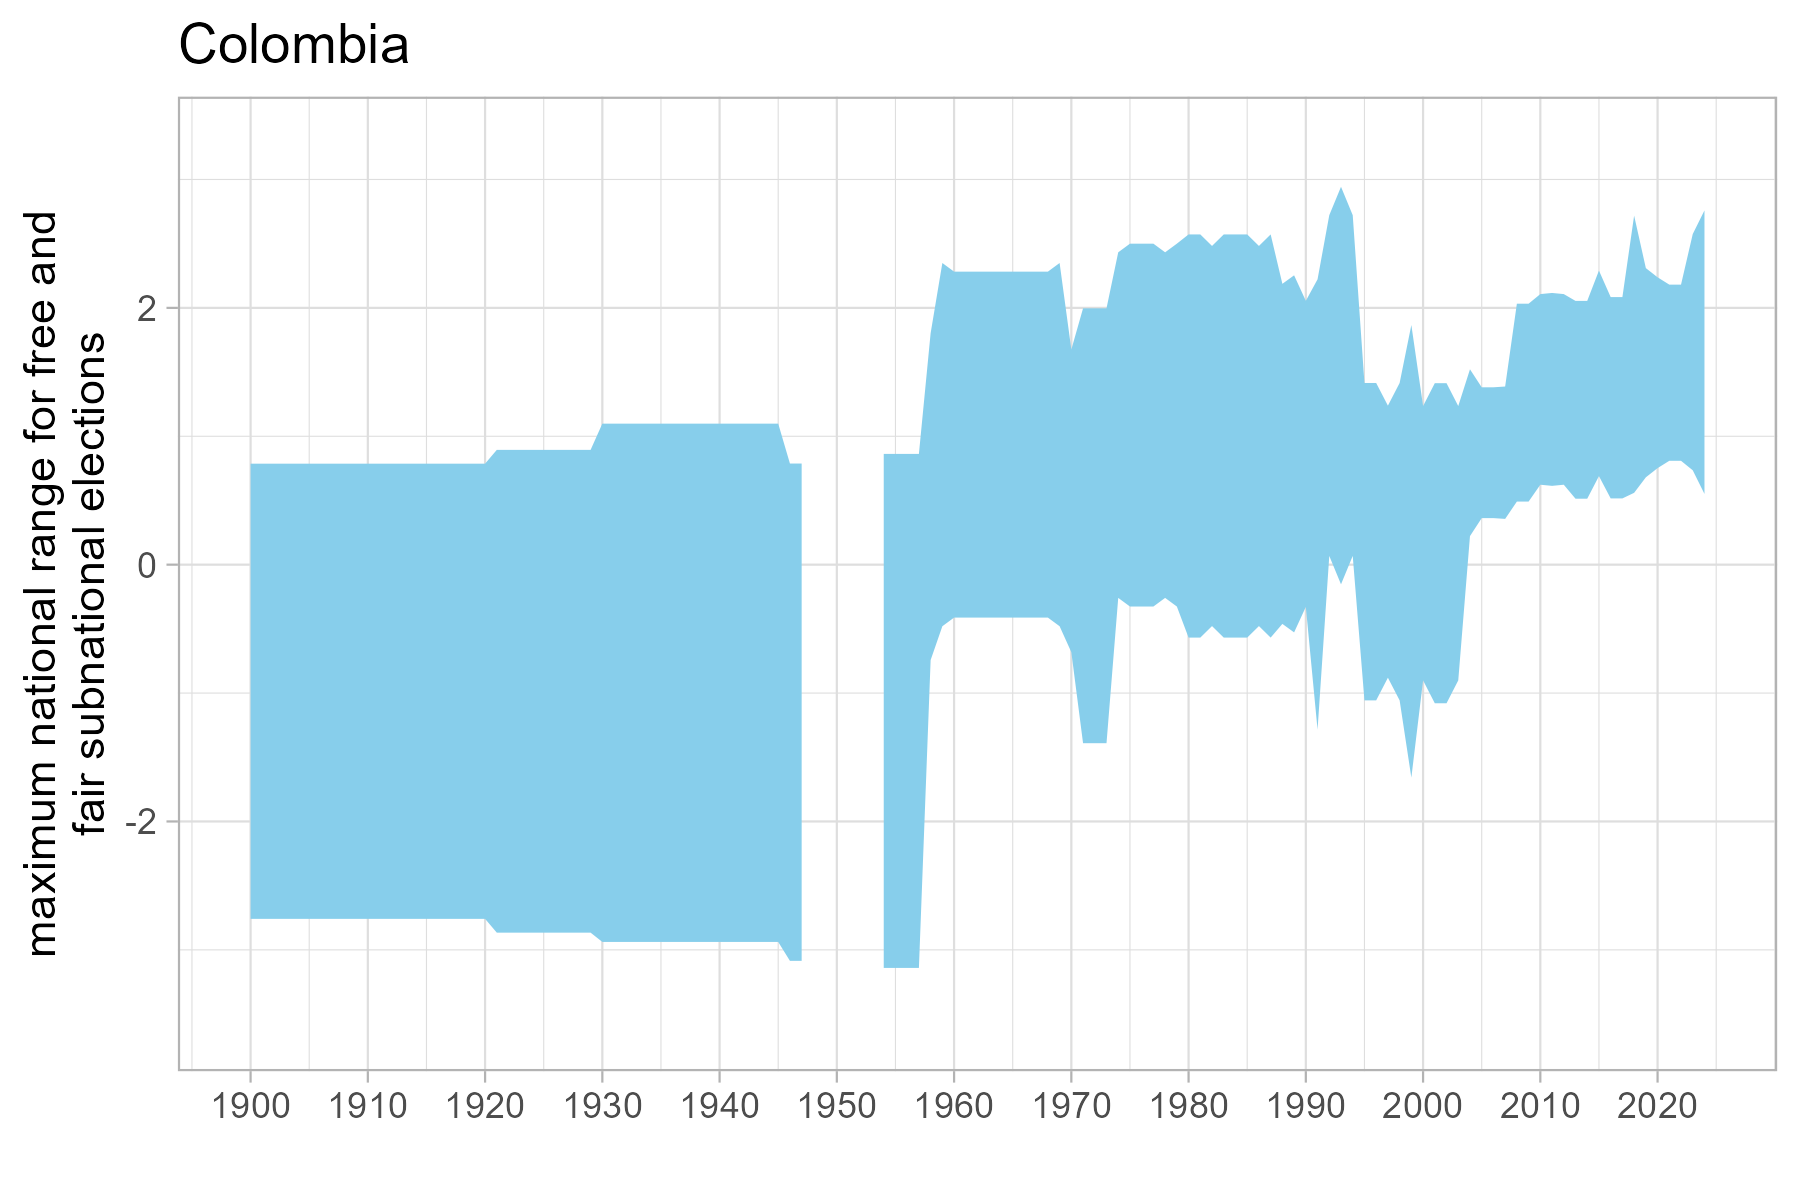
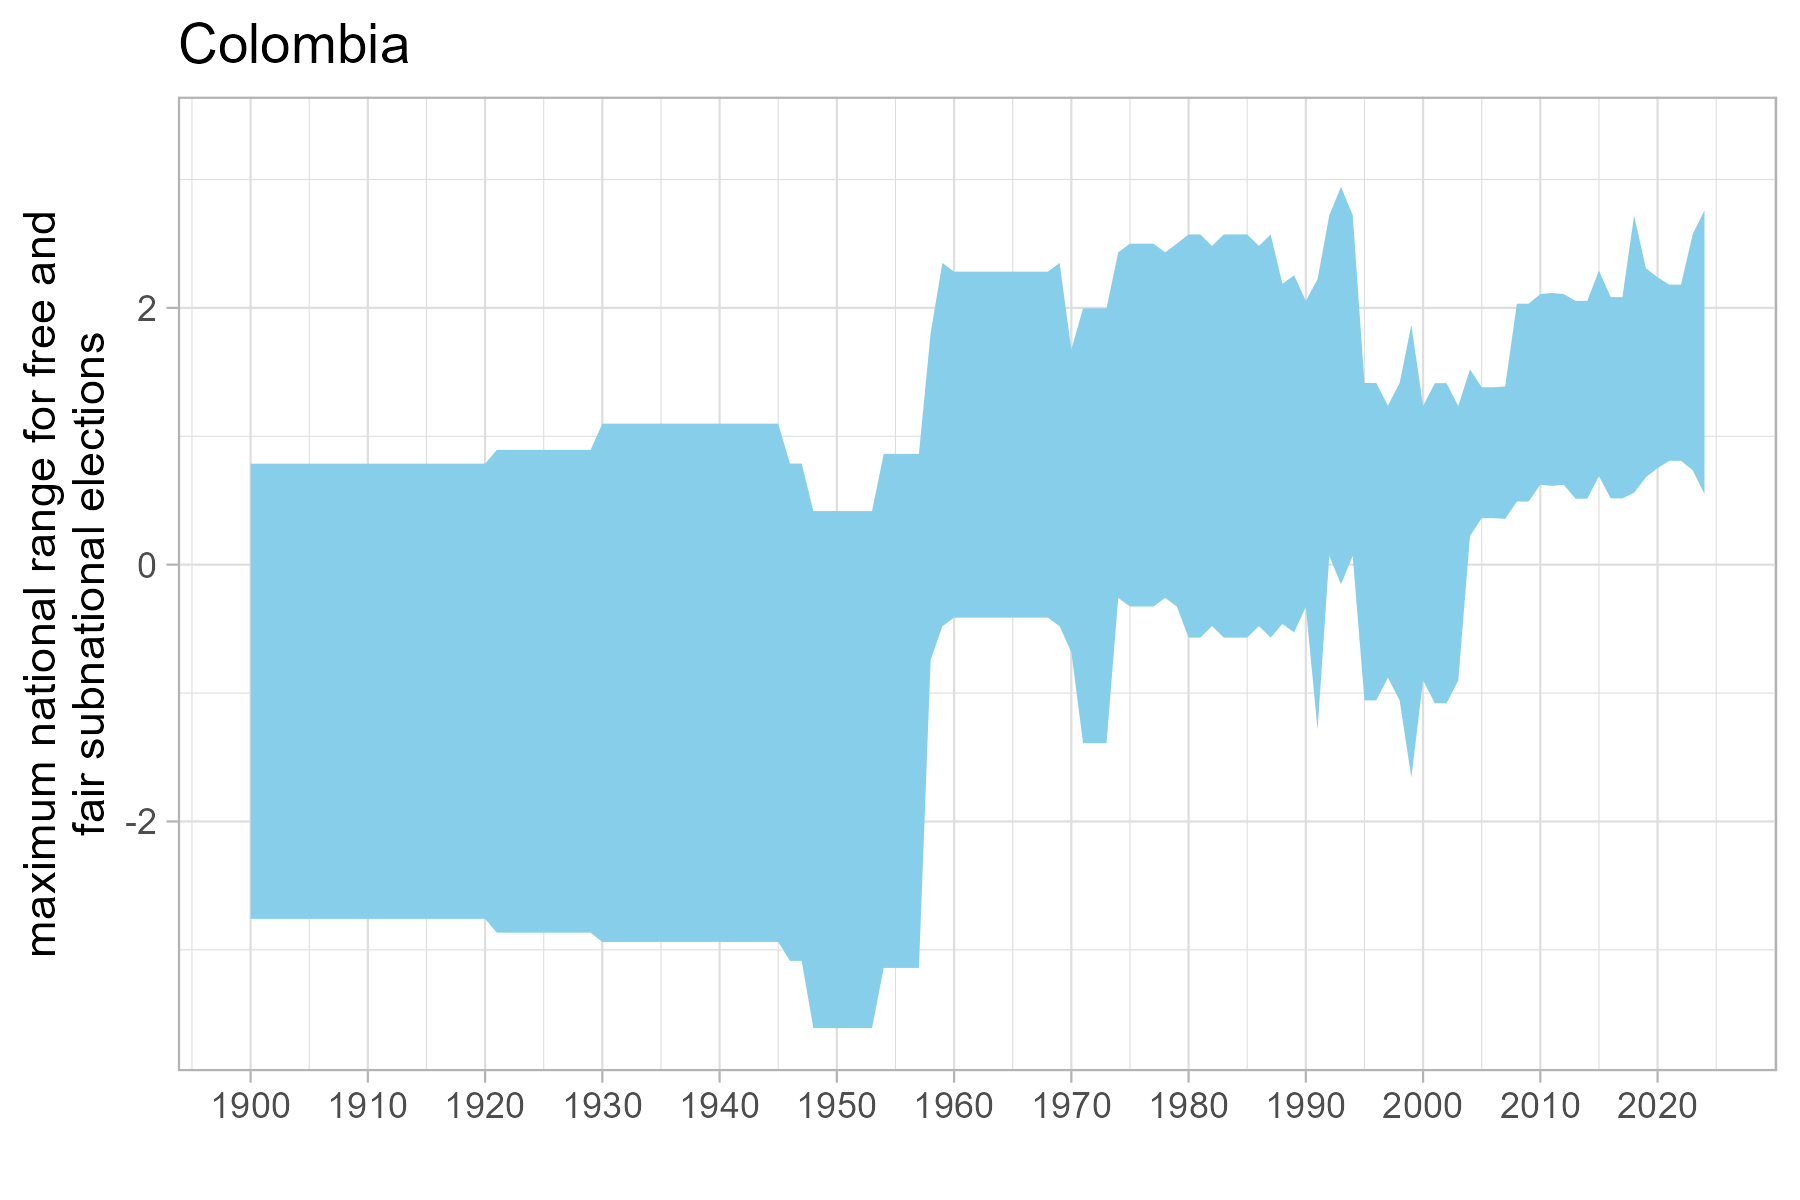
Fix scale_y_continuous() silently dropping out-of-range rows in weighting plots
scale_y_continuous(limits=...) converts values outside the window to NA
before geom_ribbon() draws, rather than just zooming -- this was tearing a
visible gap in snlsff_colrange.png around COL 1948-1953, where the
2026-07-03 range-formula correction pushed ymin just past the plot's
hardcoded c(-3.6, 3.3) limits. Replaced with coord_cartesian(ylim=...) in
both the elections and civil-liberties plots, which only sets the
viewport and never drops in-range data regardless of how the weighting
formula evolves.

Also confirmed (again, more fully this time) that MC's legacy weighted-range
formula is invalid, not a valid alternate calculation: 40% of rows come out
negative under the legacy formula vs. 0% under the current one. See
weighting_bug_log_2026-07-06.md for the full trace and comparison.

Changed region(s): [[0.4356, 0.4008, 0.4978, 0.8633]]

diff --git a/data/panel/04_vdem_data/weighting_bug_log_2026-07-06.md b/data/panel/04_vdem_data/weighting_bug_log_2026-07-06.md
@@ -1,0 +1,71 @@
+# Weighting script bug log — 2026-07-06
+
+**Context:** Patrick noticed a gap in `snlsff_colrange.png` around 1950 (`ggsave` warning:
+"Removed 6 rows containing missing values or values outside the scale range
+(`geom_ribbon()`)"), and separately asked why the new plot looks so different from MC's
+`weighting_January2026_0726.R` output, since line 115 of that script "appears to properly
+calculate the weighted ranges."
+
+## Bug — `scale_y_continuous(limits=...)` silently drops out-of-range rows
+
+Traced the 6 missing rows directly: both `snlsff` (coder counts) and `HPDs` (`v2elffelr`) are
+complete for Colombia, 1900-2024/2025 — no NAs, no gaps, no duplicate merge keys. The 6 rows
+are COL 1948-1953, where (with the 2026-07-03 corrected formula) `ymin = v2elffelr -
+weighted_range = -1.596 - 2.013 = -3.609`, just past the plot's hardcoded
+`scale_y_continuous(limits = c(-3.6, 3.3))`.
+
+`scale_y_continuous(limits=...)` converts any value outside the window to `NA` before
+`geom_ribbon()` draws — it doesn't just zoom, it deletes data. That's what tore the gap.
+Before the 2026-07-03 range-formula fix, `weighted_range` was smaller for COL (the bug
+understated it), so `ymin` never crossed -3.6 and the gap didn't appear — i.e. the gap is a
+side effect of the *previous* fix becoming more visible, not a new data problem.
+
+**Fix:** replaced `scale_y_continuous(limits=...)` with `coord_cartesian(ylim=...)` in both the
+elections (`snlsff_colrange.png`) and civil-liberties (`clx_colrange.png`) plots in
+`02_vdem_weighting.R`. `coord_cartesian` only sets the viewport/zoom — it never converts
+in-range data to `NA`, so no rows get dropped regardless of how the weighting formula evolves.
+
+## Confirmed: MC's legacy formula is invalid, not a valid alternate calculation
+
+This was already flagged in `weighting_bug_log_2026-07-03.md` (see "This was not carried over
+cleanly from either prior script version"), but Patrick's question today prompted a direct,
+fuller check rather than relying on that note secondhand. Computed both formulas across the
+whole merged `snlsffHPD` table (all countries, all years):
+
+| Check | Legacy (`weighting_January2026_0726.R` line 115) | Current (`02_vdem_weighting.R`) |
+|---|---|---|
+| Share of rows with `weighted_range < 0` (impossible for a range) | **40.0%** | 0% |
+| Share of rows with `weighted_range > 2×HPD` (theoretical max) | 1.4% | 0% |
+
+Worked example, COL 1950 (`snlsff_0=10` sig.-variation coders, `snlsff_1=0`, `snlsff_2=2`
+no-variation coders, `HPD=1.208`):
+- Legacy: `((2-0)*1.208 + (2-10)*1.208*2) / 12 = -1.409` — negative, i.e. `ymax < ymin`.
+- Current: `(0*1.208 + 10*2*1.208) / 12 = 2.013` — sensible, ≤ `2*HPD`.
+
+The legacy code applied `(2 - x)` to the **aggregated coder count** (`snlsff_0`, `snlsff_1` —
+how many coders picked that category), not to each coder's own category code. The intended
+design (operational strategy doc: "if all experts chose answer 2, multiply HPD by 2-2=0 ... if
+all chose 0, multiply by 2-0=2") is a per-coder weight of `2 - category`, summed across coders
+and averaged. That collapses to fixed per-category coefficients — `snlsff_0 * 2 + snlsff_1 * 1
++ snlsff_2 * 0` — which is exactly what the current script computes directly, without a visible
+"2 -" anywhere, because the subtraction was already carried out at the coefficient level. The
+current script isn't missing a term relative to the legacy one; the legacy script's `(2 -
+snlsff_1)` / `(2 - snlsff_0)` was a dimensional error (subtracting a *count* from 2, not a
+*category code*), and it just happens to look similar syntactically.
+
+**Practical implication:** MC's original `colrange.png`-style plots (and by extension any
+figure in the operational strategy doc or older memos built from that script) should not be
+treated as a correctness reference for these two ribbon plots — they're drawn from a formula
+that returns negative "ranges" for 40% of all country-year observations globally.
+
+**Follow-up (not yet done):** Patrick wants a side-by-side of the original MC graphic vs. the
+current corrected graphic (for both elections and civil liberties) included in the benchmarking
+memo, to make this visible rather than just documented in this log.
+
+## Status
+
+- `02_vdem_weighting.R` updated (coord_cartesian fix), re-run to confirm `snlsff_colrange.png`
+  and `clx_colrange.png` render without gaps.
+- No underlying `.dta` output changed by this fix — only the plot rendering. The 2026-07-03
+  corrected `weighted_range`/`wtdCL_range` values were already correct; only their visualization
+  was affected.